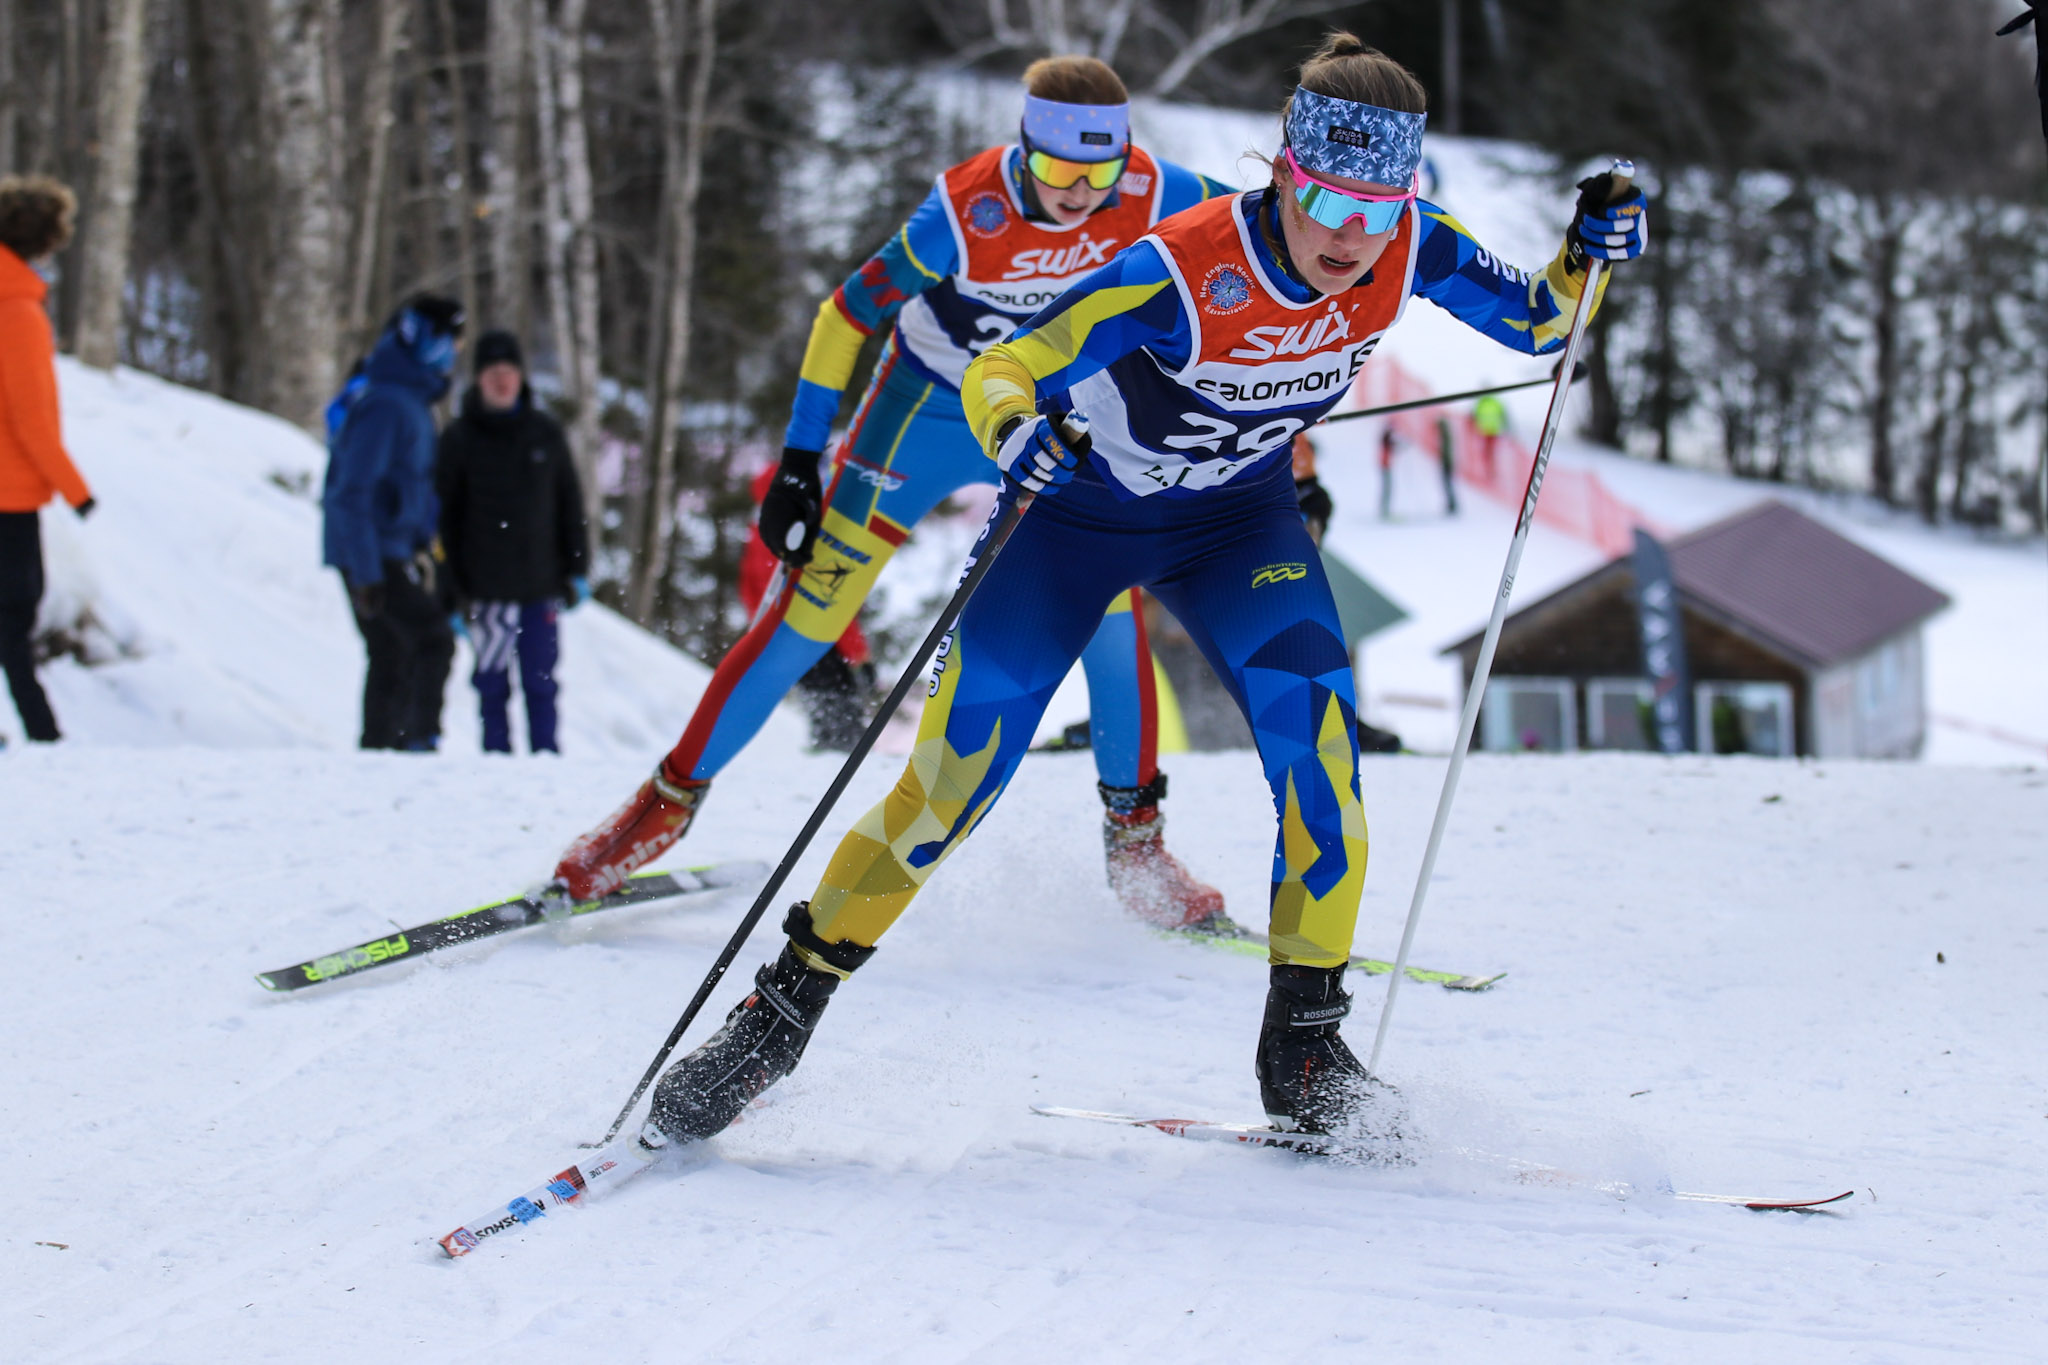
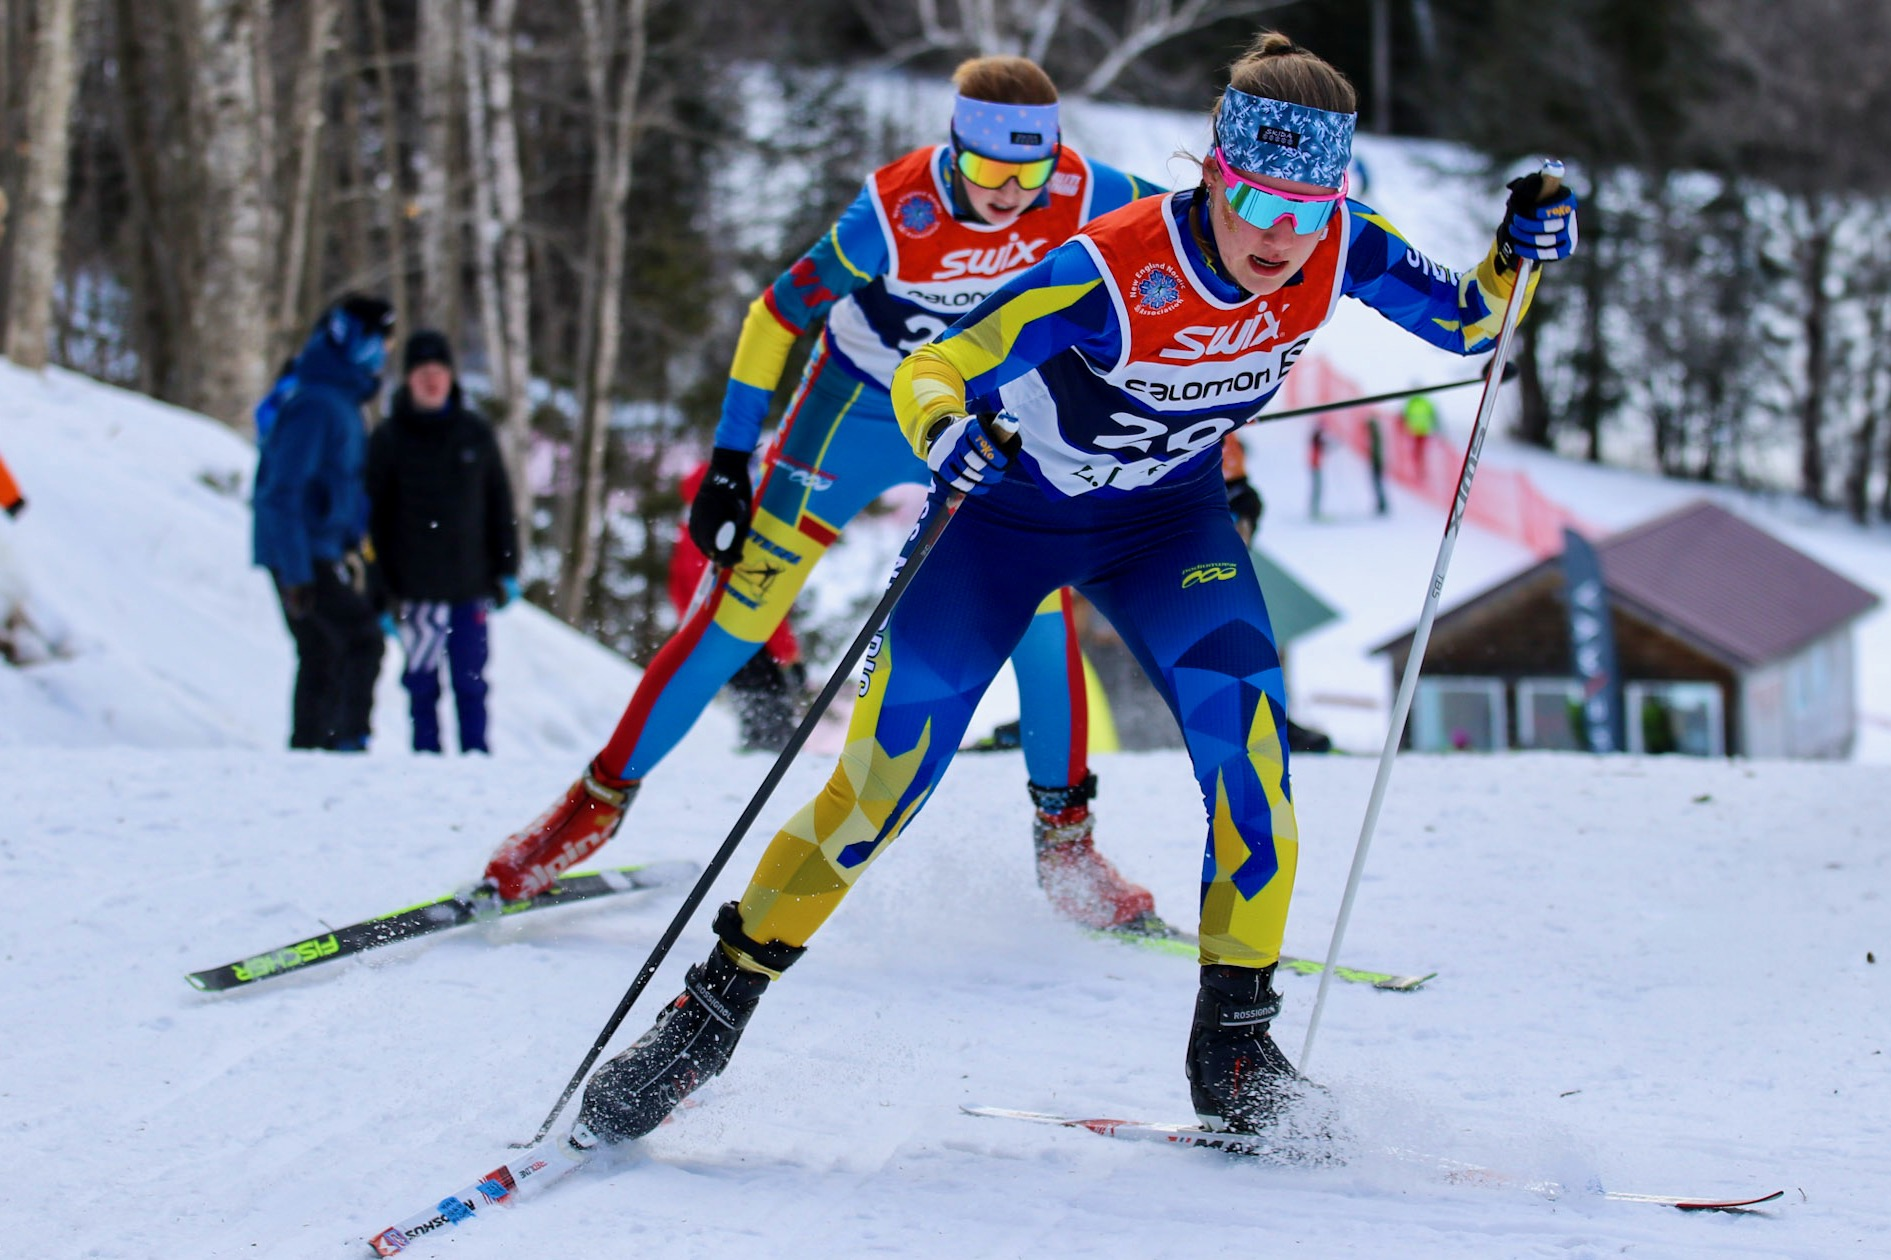
refined photos, placement, credits

diff --git a/_sass/color_schemes/massnordic.scss b/_sass/color_schemes/massnordic.scss
@@ -2,29 +2,59 @@ $color-scheme: massnordic;
 $link-color: $blue-100;
 $nav-child-link-color: $blue-200;
 
+
+.float-right {
+  float: right;
+  margin: 0 0 1em 1em;  /* top right bottom left */
+  max-width: 40%;       
+  border-radius: 8px;
+  width: 300px; 
+}
+
+.float-top {
+  max-width: 100%;       
+  border-radius: 8px;
+  max-height: 500px; 
+}
+
+
+.image-with-credit {
+  display: inline-block;
+  position: relative;
+}
+
+.image-with-credit img {
+  display: block;
+  max-width: 100%;
+  height: auto;
+  border-radius: 8px;
+}
+
+.image-credit {
+  font-size: 0.75rem;
+  color: #666;
+  text-align: right;
+  margin-top: 0.25em;
+}
+
+.image-credit a {
+  color: inherit;
+  text-decoration: none;
+}
+
+.image-credit a:hover {
+  text-decoration: underline;
+}
+
 @media (max-width: 600px) {
   .float-right {
     float: none;
     display: block;
     margin: 1em auto;
     max-width: 100%;
+    max-height: 400px;
   }
-}
-
-.float-right {
-  float: right;
-  margin: 0 0 1em 1em;  /* top right bottom left */
-  max-width: 40%;       
-  width: 300px;
-  border-radius: 12px;
-  width: auto; 
-}
-
-.float-top {
-  float: top;
-  margin: 0 0 1em 1em;  /* top right bottom left */
-  max-width: 90%;       
-  width: 500px;
-  border-radius: 12px;
-  width: auto; 
+  .image-credit {
+    text-align: center;
+  }
 }

diff --git a/index.md b/index.md
@@ -4,12 +4,16 @@ layout: home
 nav_order: 1
 ---
 
-# The Mass Nordic Program
-
-<img 
+<figure class="float-top image-with-credit">
+  <img 
   src="{{ site.baseurl }}/assets/images/2025_ehs_championships_team.jpg" 
-  alt="2025 EHS Championships Team"
-  class="float-top">
+  alt="2025 EHS Championships Team">
+  <figcaption class="image-credit">
+    Team MA at the 2025 Eastern High School Championships
+  </figcaption>
+</figure>
+
+# The Mass Nordic Program
 
 The Massachusetts Nordic Program, better known as Mass Nordic, is an umbrella organization bringing together athletes, coaches, and clubs to support junior cross-country ski racing across the state.
 Our goal is to make high-quality racing and training accessible to all Massachusetts high school skiers, while also preparing Team MA to compete at the Eastern High School and U16 Championships each March.

diff --git a/ehs-championships.md b/ehs-championships.md
@@ -7,11 +7,20 @@ permalink: /ehs-championships/
 
 # EHS Championships
 
-<img 
-  src="{{ site.baseurl }}/assets/images/2023_ehs_championships.jpg" 
-  alt="2023 Eastern High School Championships"
-  class="float-right">
+<figure class="float-right image-with-credit">
+  <img 
+    src="{{ site.baseurl }}/assets/images/2023_ehs_championships.jpg" 
+    alt="2023 Eastern High School Championships">
+  <figcaption class="image-credit">
+    Photo by <a href="https://www.tombartol.com/photos" target="_blank">Tom Bartol</a>
+  </figcaption>
+</figure>
 
+
+<!-- <img 
+    src="{{ site.baseurl }}/assets/images/2023_ehs_championships.jpg" 
+    alt="2023 Eastern High School Championships"
+    class="float-right"> -->
 
 ## 2026
 

diff --git a/u16-championships.md b/u16-championships.md
@@ -5,13 +5,23 @@ nav_order: 3
 permalink: /u16-championships/
 ---
 
-# U16 Championships
-
-<img 
+<!-- <img 
   src="{{ site.baseurl }}/assets/images/2025_u16_championships.jpg" 
   alt="2025 U16 Championships"
-  class="float-top">
+  class="float-top"> -->
 
+
+<figure class="float-top image-with-credit">
+  <img 
+    src="{{ site.baseurl }}/assets/images/2025_u16_championships.jpg" 
+    alt="2025 U16 Championships">
+  <figcaption class="image-credit">
+    Photo by Nicole Tucker
+  </figcaption>
+</figure>
+
+
+# U16 Championships
 
 ## 2026
 

diff --git a/ma-nordic-cup.md b/ma-nordic-cup.md
@@ -5,12 +5,16 @@ nav_order: 2
 permalink: /ma-nordic-cup/
 ---
 
-# MA Nordic Cup
+<figure class="float-top image-with-credit">
+  <img 
+    src="{{ site.baseurl }}/assets/images/2025_ma_nordic_cup.jpg" 
+    alt="2025 MA Nordic Cup">
+  <figcaption class="image-credit">
+    Photo by Dingli Zeng
+  </figcaption>
+</figure>
 
-<img 
-  src="{{ site.baseurl }}/assets/images/2025_ma_nordic_cup.jpg" 
-  alt="2025 MA Nordic Cup"
-  class="float-top">
+# MA Nordic Cup
 
 ## 2026 MA Nordic Cup
 
